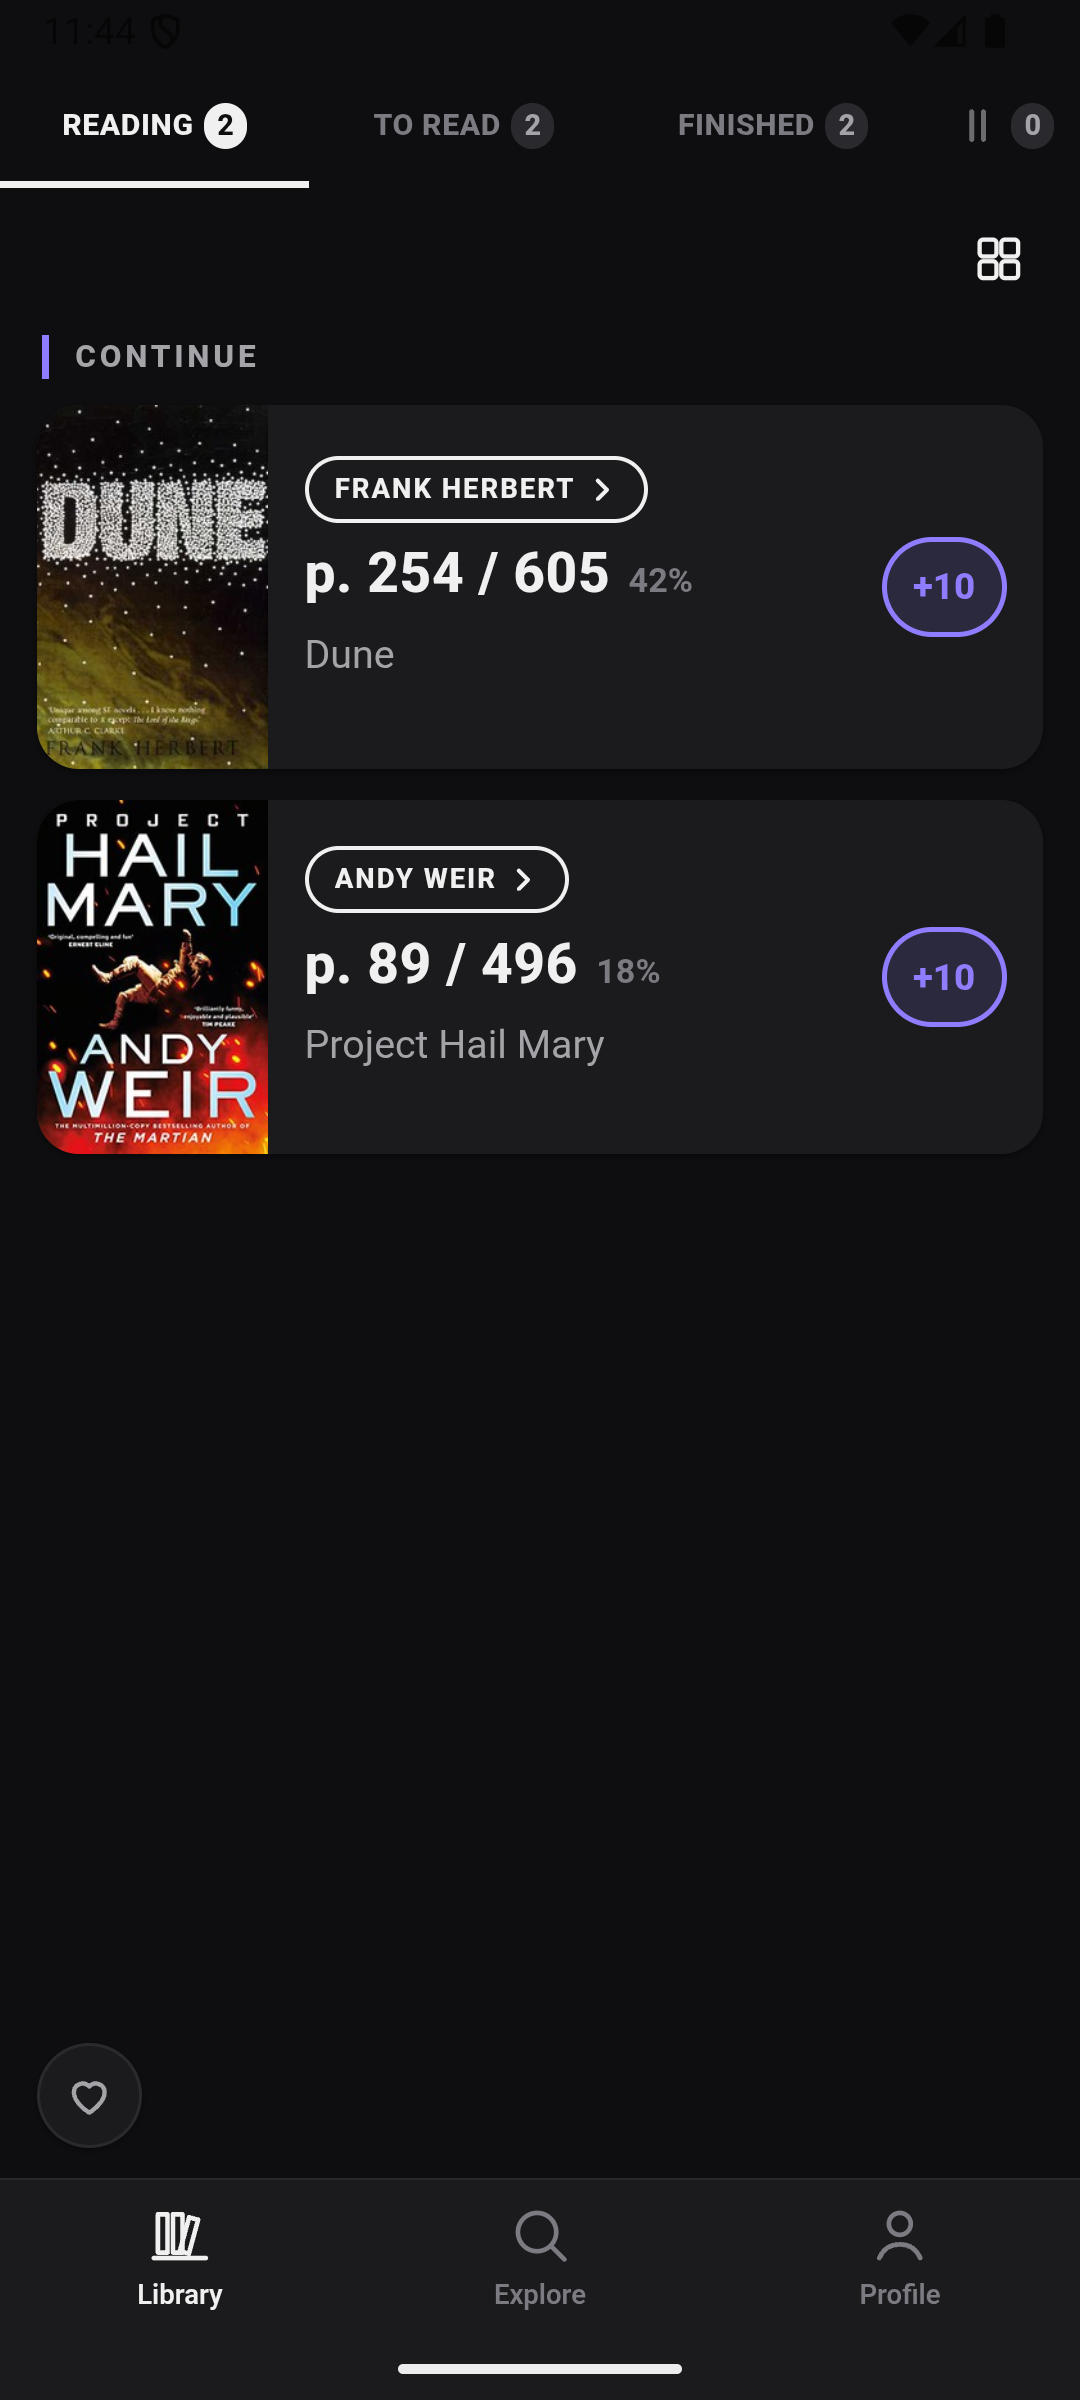
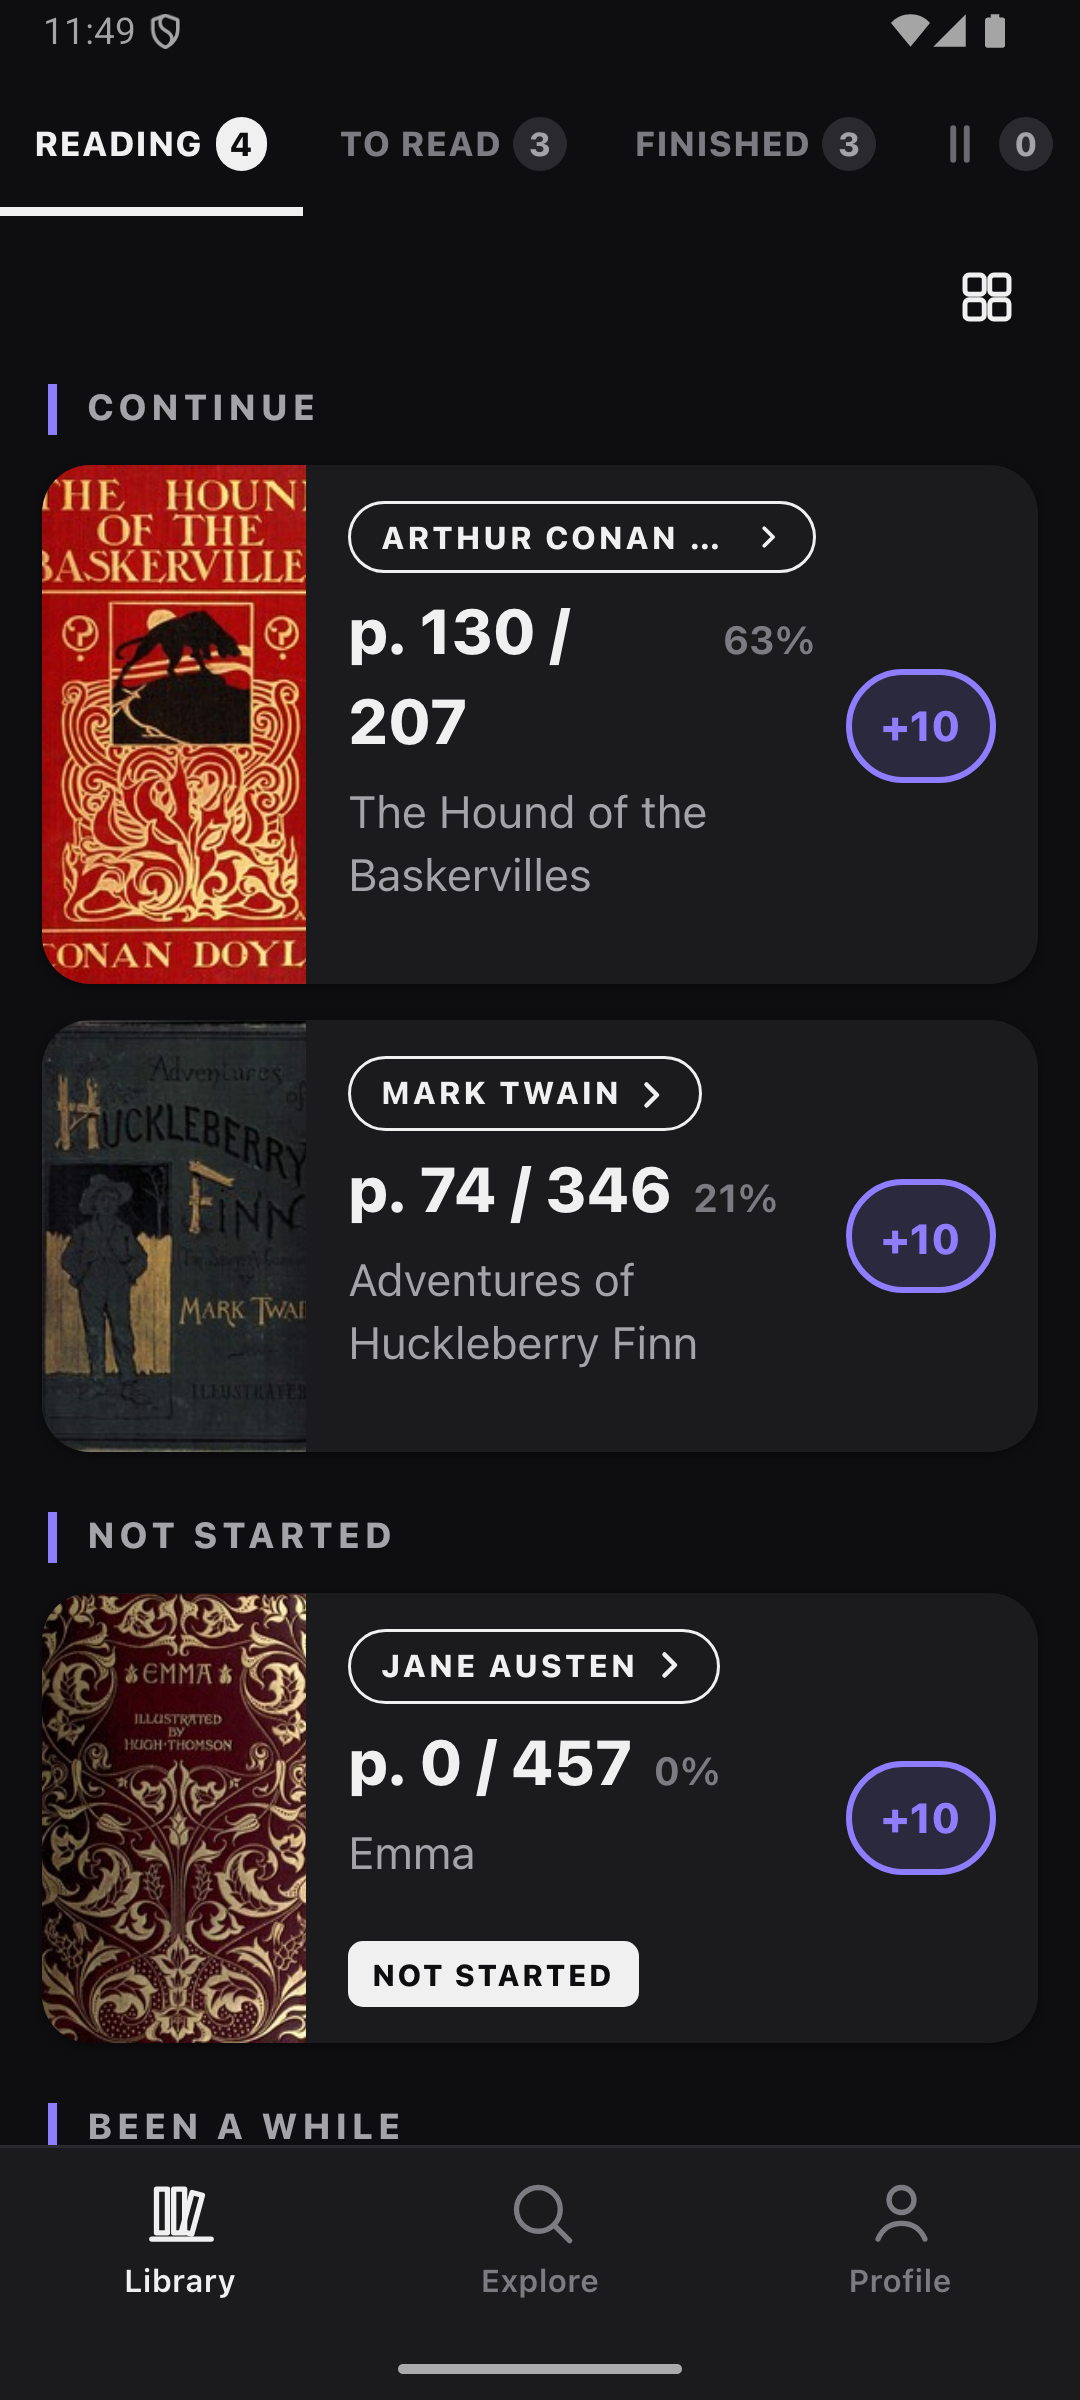
Store screenshots without publisher covers
The store sets, the README image and the products page's pairs showed Dune,
Project Hail Mary, The Way of Kings, The Hobbit and Thinking, Fast and Slow,
plus the donation heart. scripts/store-screenshots.mjs (adapted from
film-table and games-table) now makes all of them:

- seeds a library through the app's own search and store calls; the reading
  history is dated by running each store call with Date.now() moved back to
  its day, so "a month ago" is the app's own arithmetic;
- every seeded book is one whose Open Library cover was looked at and is a
  scan of a period edition (Jane Eyre 1848, A Tale of Two Cities 1859 part,
  Alice, Huckleberry Finn 1886, Sherlock Holmes 1892, Emma and Sense and
  Sensibility 1896, The Hound of the Baskervilles 1902, The Scarlet Letter
  1878, the 1818 Frankenstein title page), plus four checked covers the
  Lewis Carroll search shows; the seed stops if a cover changes;
- everything else is blurred, cut to the image's own box so the blur no
  longer spreads into the card text;
- ?from=app hides the donation button, safe-area insets are emulated and the
  simulator/emulator bars composited on top.

Writes ios-6.9 (1320x2868, light, now four shots), android (1080x2400,
dark; 03-profile was a copy of 02-book, and 04-explore is new),
docs/store/site/ 414x896 light+dark pairs under the products page's names,
and docs/readme/books-table.png. STORE.md's "Store assets" says how.

diff --git a/docs/STORE.md b/docs/STORE.md
@@ -65,10 +65,45 @@ The honest answers, same on both stores:
 - `docs/store/screenshots/ios-6.9/` — 1320×2868, the size Apple asks for. Light theme.
 - `docs/store/screenshots/android/` — 1080×2400. Dark theme, on purpose: between the
   two sets a reviewer sees the app in both themes, which is worth more than matching.
+- `docs/store/site/` — 414×896 light and dark pairs under the file names the products
+  page uses (`reading`, `shelf`, `choice`, `book`, `explore`, `search`, `profile`).
 - `docs/store/feature-graphic-1024x500.png` — Play's feature graphic.
+- `docs/store/frame/` — the status and gesture bars, lifted from the simulator and
+  emulator, that the script lays over the store sets.
 
-All screenshots were taken from a library of **real** titles fetched from the app's own
-sources, not mocked up. Anyone regenerating them should keep that rule and one more,
+`node scripts/store-screenshots.mjs` makes all of them, and `docs/readme/books-table.png`
+(the header says what it needs). They are taken from a library of **real** titles
+fetched from the app's own sources, not mocked up, and seeded through the app's own
+search and store calls. Anyone regenerating them should keep that rule and one more,
 learned the hard way: the seed has to store exactly what the app itself would store.
 Trimming an author list or writing a raw upstream date straight through produces a
-screenshot that advertises behaviour the app does not have.
+screenshot that advertises behaviour the app does not have. The reading history is
+dated by running each store call with the clock moved back to its day, so "a month
+ago" on A Tale of Two Cities is the app's own arithmetic.
+
+**No publisher covers (2026-10-18).** The first set showed Dune, Project Hail Mary, The
+Way of Kings, The Hobbit and Thinking, Fast and Slow — cover art that belongs to the
+publishers and their artists, in an ad for an app. A public-domain text is not enough on
+its own: a modern edition's cover is still that edition's art, and for most classics it
+is what Open Library shows (Frankenstein, Moby-Dick, The Time Machine, Dracula and
+Treasure Island came back with modern covers, Pride and Prejudice with an undated Nelson
+Doubleday binding). Now:
+
+- every book in the seed is one whose Open Library cover was looked at and is a scan of
+  a period edition: Jane Eyre (Harper & Brothers, 1848), A Tale of Two Cities (the
+  monthly part, Chapman and Hall, 1859, Phiz), Alice's Adventures in Wonderland
+  (Macmillan, Tenniel's roundel), Adventures of Huckleberry Finn (Charles L. Webster,
+  1886), The Adventures of Sherlock Holmes (George Newnes, 1892), Emma and Sense and
+  Sensibility (Macmillan, 1896, Hugh Thomson), The Hound of the Baskervilles (George
+  Newnes, 1902, Alfred Garth Jones, d. 1955 — life plus seventy ran out in January
+  2026), The Scarlet Letter (J. R. Osgood, 1878)
+  and Frankenstein (the 1818 title page, as its own Open Library work). The search for
+  Lewis Carroll adds four more, checked the same way. No credit line is needed — these
+  are public domain;
+- the seed stops if a search result no longer carries the cover that was checked, and
+  everything not on `CLEAN_ART` — For you, the rest of a search — is **blurred** inside
+  its own box where it is drawn;
+- Anne of Green Gables was left out: its 1908 cover is public domain in the US, but the
+  artists' dates could not be confirmed for countries that count life plus seventy;
+- a title only joins `CLEAN_ART` after its image has been looked at and its date checked.
+- The donation button is gone from the shots, as it is from the native app.
